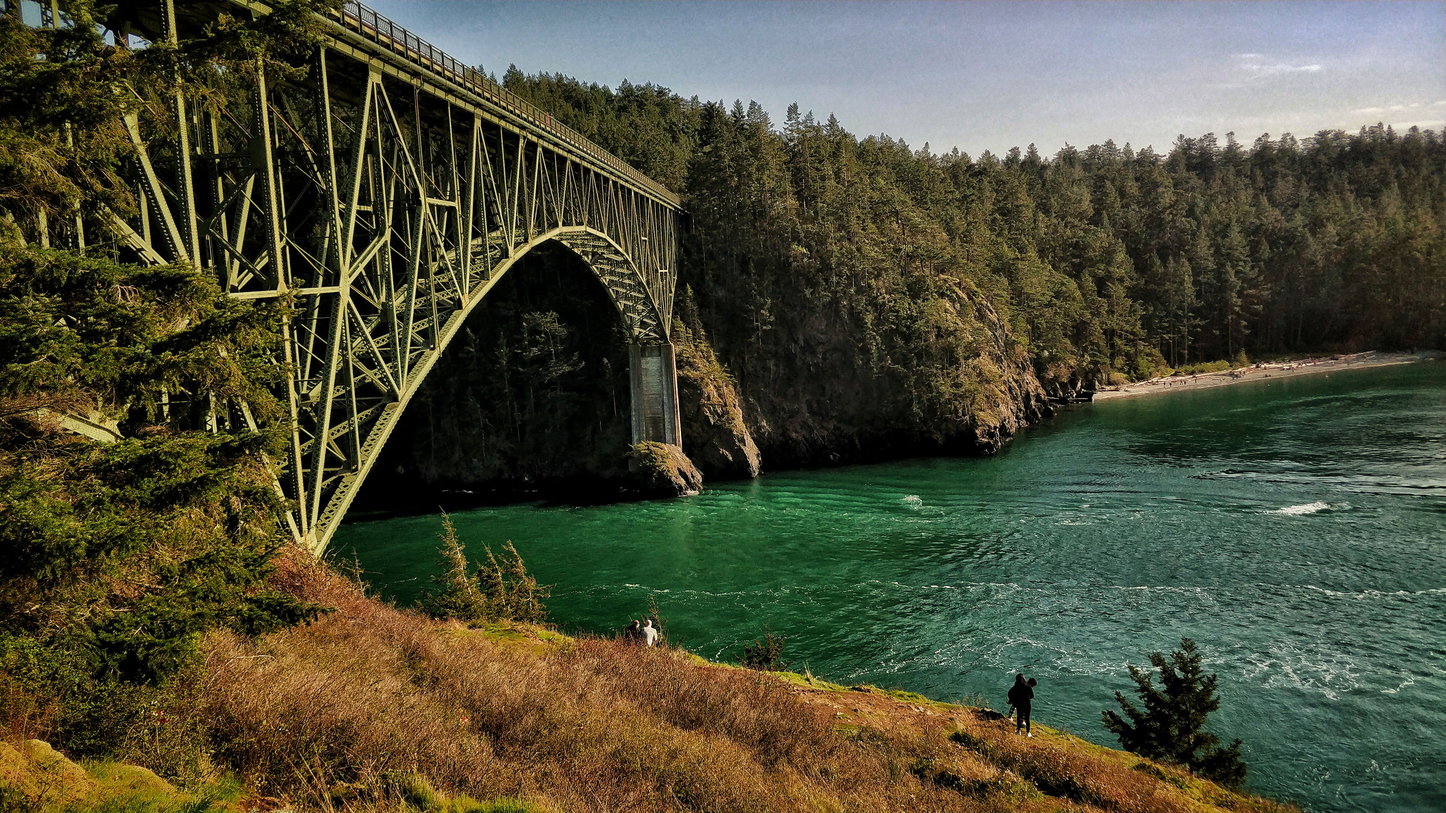
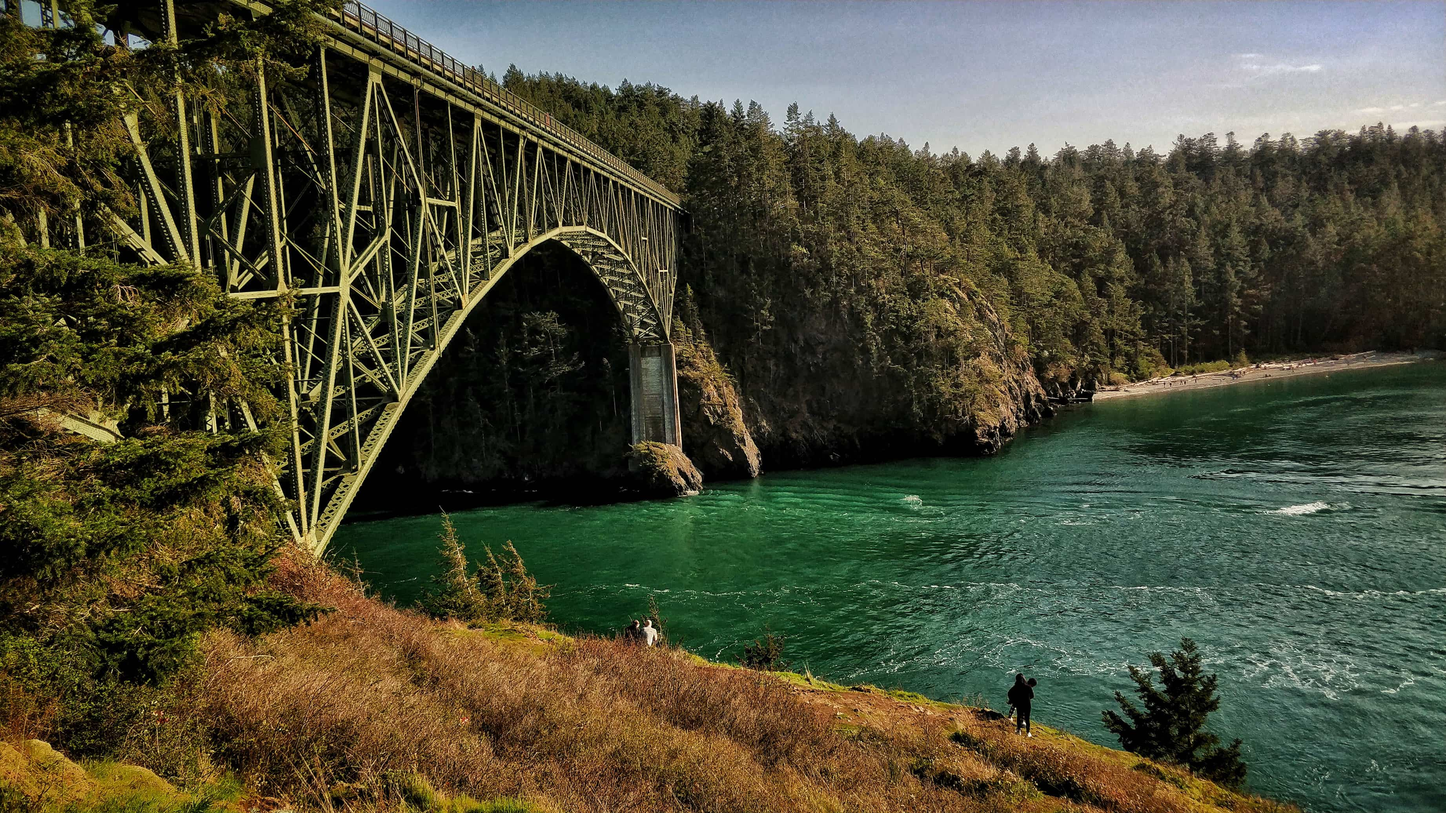
updated images for faster load

diff --git a/index.html b/index.html
@@ -550,6 +550,7 @@
             <div class="row projectScrollCont">
                 <div class="col-12 col-sm-12 col-md-3 col-lg-3 col-xl-2 p-0 btn-group-vertical navbarProj">
                     <nav id="innerNav" class="nav ml-2">
+                        <a href="#ALL" class="btn btn-outline-success btn-sm m-1 p-1 projNavBtn nav-link">Accessibility Lending Library</a>
                         <a href="#medSight" class="btn btn-outline-success btn-sm m-1 p-1 projNavBtn nav-link">MedSight</a>
                         <a href="#theWeekender" class="btn btn-outline-success btn-sm m-1 p-1 projNavBtn nav-link">The Weekender</a>
                         <a href="#holidayScraper" class="btn btn-outline-success btn-sm m-1 p-1 projNavBtn nav-link">Holiday Decor Scraper</a>

diff --git a/assets/css/style.css b/assets/css/style.css
@@ -430,7 +430,7 @@ button:focus {
 
 .img-thumbnailMe {
     flex-shrink: 0;
-    min-width: 100%;
+    /* min-width: 100%; */
     min-height: 100%;
     border-radius: 10px;
     
